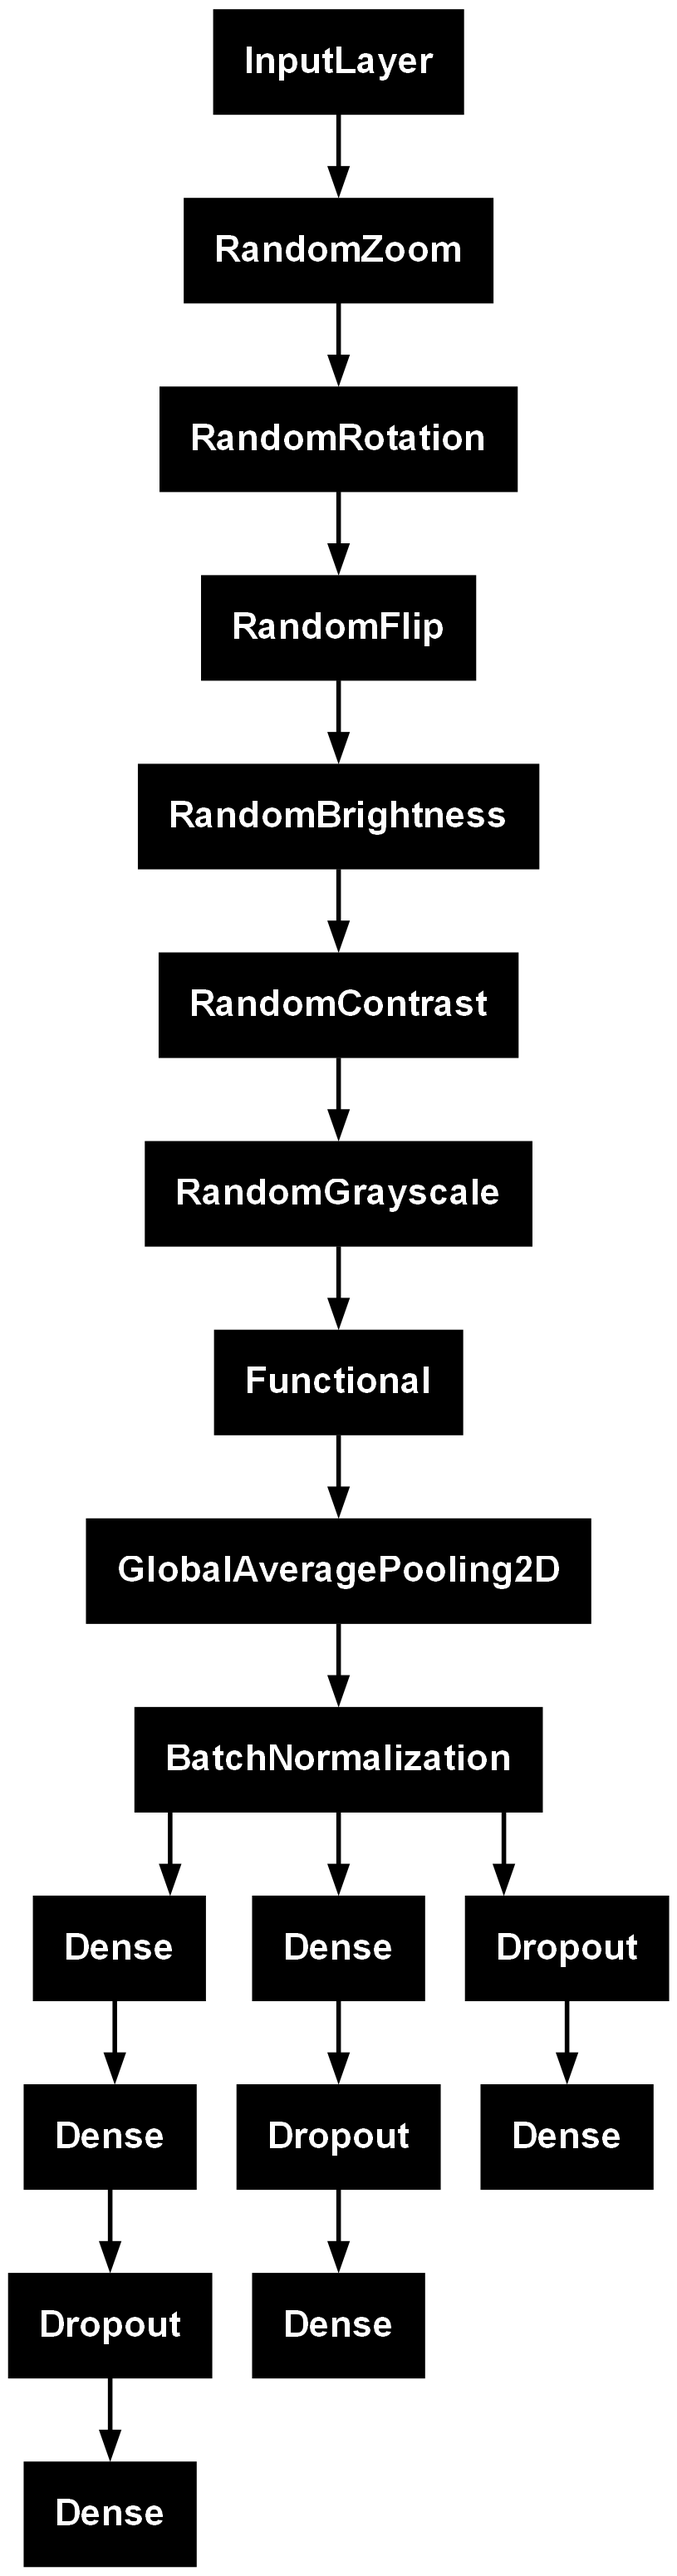
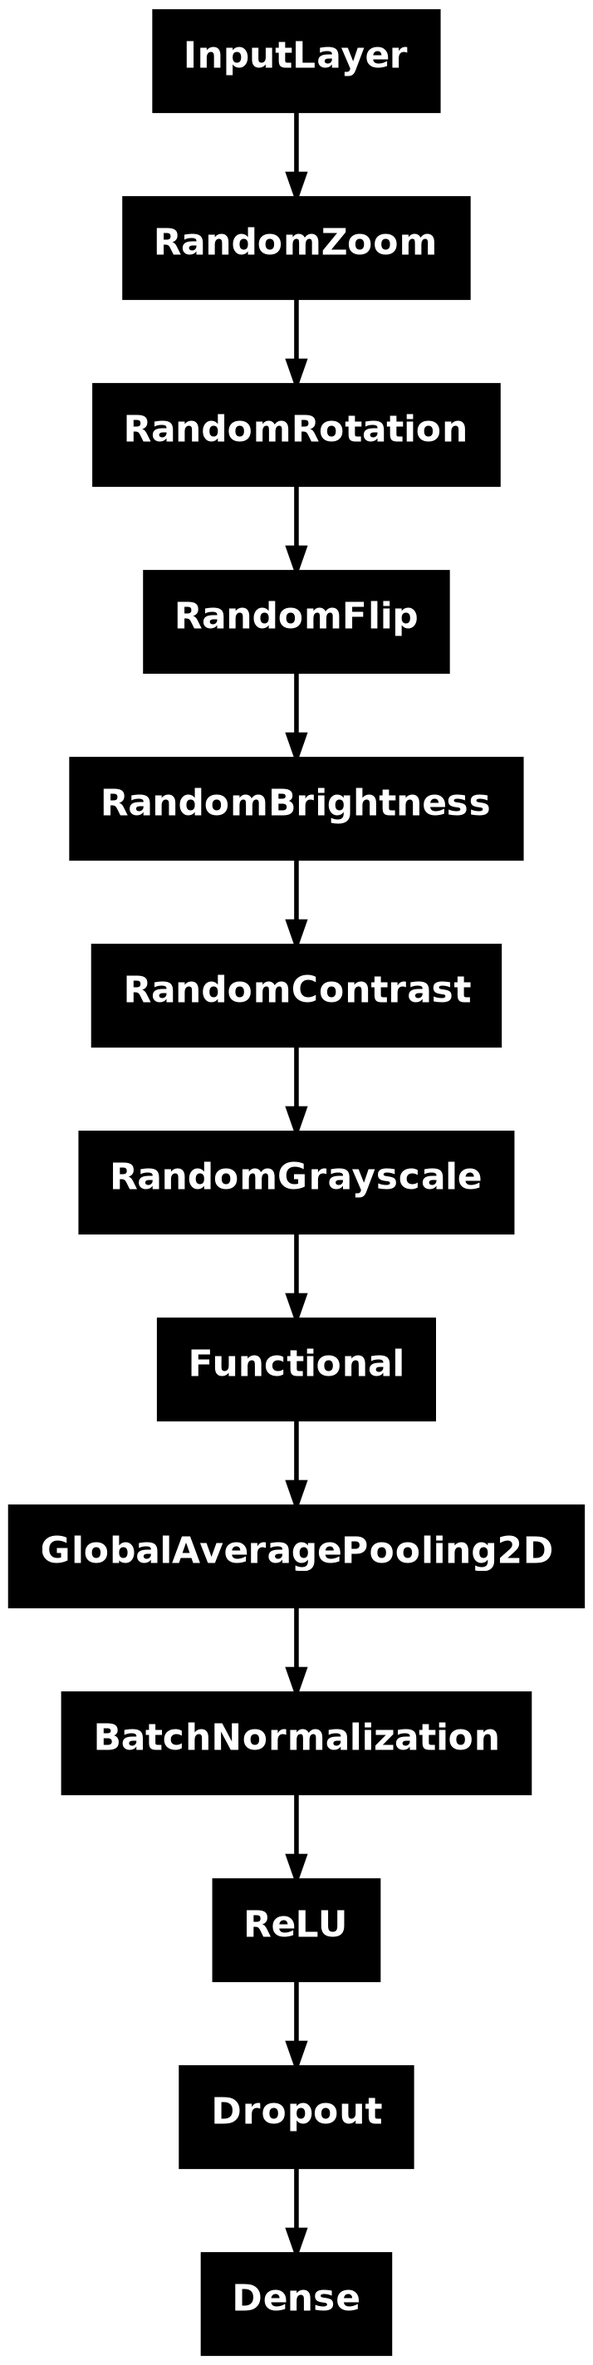
* efficientnetb0 basiertes model

diff --git a/FaceDetector.py b/FaceDetector.py
@@ -1,5 +1,5 @@
 import numpy as np
-from keras import layers, applications, metrics, losses, optimizers, callbacks, saving, ops, random
+from keras import layers, applications, metrics, losses, optimizers, callbacks, saving, ops, random, utils
 
 from utils import load_data, shuffle_arrays, DataGeneratorIdentifier, DataGeneratorDetector, PlotHistory
 
@@ -43,7 +43,7 @@ def FaceDetector(input_shape):
     inputs = layers.Input(shape=input_shape)
     x = preprocessing_pipeline(inputs)
 
-    basemodel = applications.EfficientNetB7(weights='imagenet', include_top=False)
+    basemodel = applications.EfficientNetB0(weights='imagenet', include_top=False)
     basemodel.trainable = False
     x = basemodel(x)
 
@@ -63,6 +63,8 @@ def FaceDetector(input_shape):
     )
 
     model.summary()
+
+    utils.plot_model(model)
 
     return model
 
@@ -139,11 +141,16 @@ if __name__ == '__main__':
 
     model_callbacks.append(callbacks.EarlyStopping(
         monitor='val_face_accuracy',
-        min_delta=0.001,
+        min_delta=0.0001,
         patience=3,
         restore_best_weights=True,
         mode="max"
     ))
+
+    def scheduler(epoch, lr):
+        return float(lr * ops.exp(-0.1))
+
+    model_callbacks.append(callbacks.LearningRateScheduler(scheduler))
 
     history = model.fit(x=training_generator,
               validation_data=val_generator,
